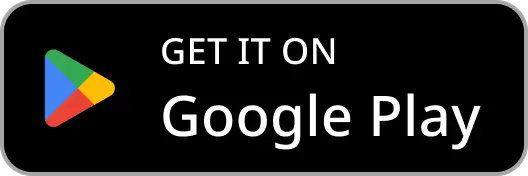
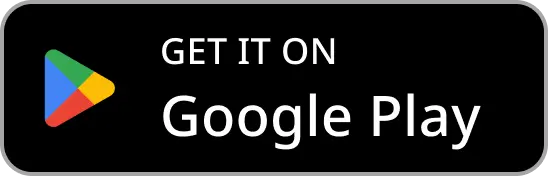
doc: Update README and Download Source

diff --git a/README.md b/README.md
@@ -5,7 +5,7 @@
 
 README Language: [中文](/docs/readme/README_CHT.md) | [English](/README.md)
 
-# A Multiplatform Wiki for Zenless Zone Zero
+## A Multiplatform Wiki for Zenless Zone Zero
 
 ZZZ Archive is a companion app for the action game Zenless Zone Zero, where users can explore in-game information and browse popular fan-made creations.
 
@@ -15,10 +15,11 @@ ZZZ Archive is a companion app for the action game Zenless Zone Zero, where user
 
 ## Download
 
-<a href="https://play.google.com/store/apps/details?id=com.mrfatworm.zzzarchive"><img alt="Get it on Google Play" src="docs/screenshot/img_google_play.webp" height="56px"/></a>
-<a href="https://apps.apple.com/tw/app/zzz-archive/id6738107658"><img alt="Get it on App Store (iOS)" src="docs/screenshot/img_app_store_ios.webp" height="56px"/></a>
-<a href="https://apps.microsoft.com/detail/9p5h3ccmzl9z"><img alt="Get it on Microsoft Store" src="docs/screenshot/img_microoft_store.webp" height="56px"/></a>
-<a href="https://apps.apple.com/tw/app/zzz-archive/id6738107658"><img alt="Get it on App Store (macOS)" src="docs/screenshot/img_app_store_mac.webp" height="56px"/></a>
+<a href="https://play.google.com/store/apps/details?id=com.mrfatworm.zzzarchive"><img alt="Get it on Google Play" src="docs/screenshot/img_google_play.webp" height="48px"/></a>
+<a href="https://github.com/mrfatworm/ZZZ-Archive/releases/latest"><img alt="Get apk on GitHub" src="docs/screenshot/img_github_apk.webp" height="48px"/></a>
+<a href="https://apps.apple.com/tw/app/zzz-archive/id6738107658"><img alt="Get it on App Store (iOS)" src="docs/screenshot/img_app_store_ios.webp" height="48px"/></a>
+<a href="https://apps.microsoft.com/detail/9p5h3ccmzl9z"><img alt="Get it on Microsoft Store" src="docs/screenshot/img_microoft_store.webp" height="48px"/></a>
+<a href="https://apps.apple.com/tw/app/zzz-archive/id6738107658"><img alt="Get it on App Store (macOS)" src="docs/screenshot/img_app_store_mac.webp" height="48px"/></a>
 
 ## UI Design
 <a href="https://www.figma.com/community/file/1441663496302710815/zzz-archive"><img alt="Screen Flow Chart (Figma Community)" src="docs/screenshot/img_figma_screen_flow_chart.webp" height="64px"/></a>
@@ -40,6 +41,7 @@ ZZZ Archive is a companion app for the action game Zenless Zone Zero, where user
 
 ## Library
 
+Thanks to all the contributors who made KMP/CMP possible!
 - Kotlin Multiplatform (KMP)
 - Compose Multiplatform (CMP)
 - JetBrains Adaptive Layout
